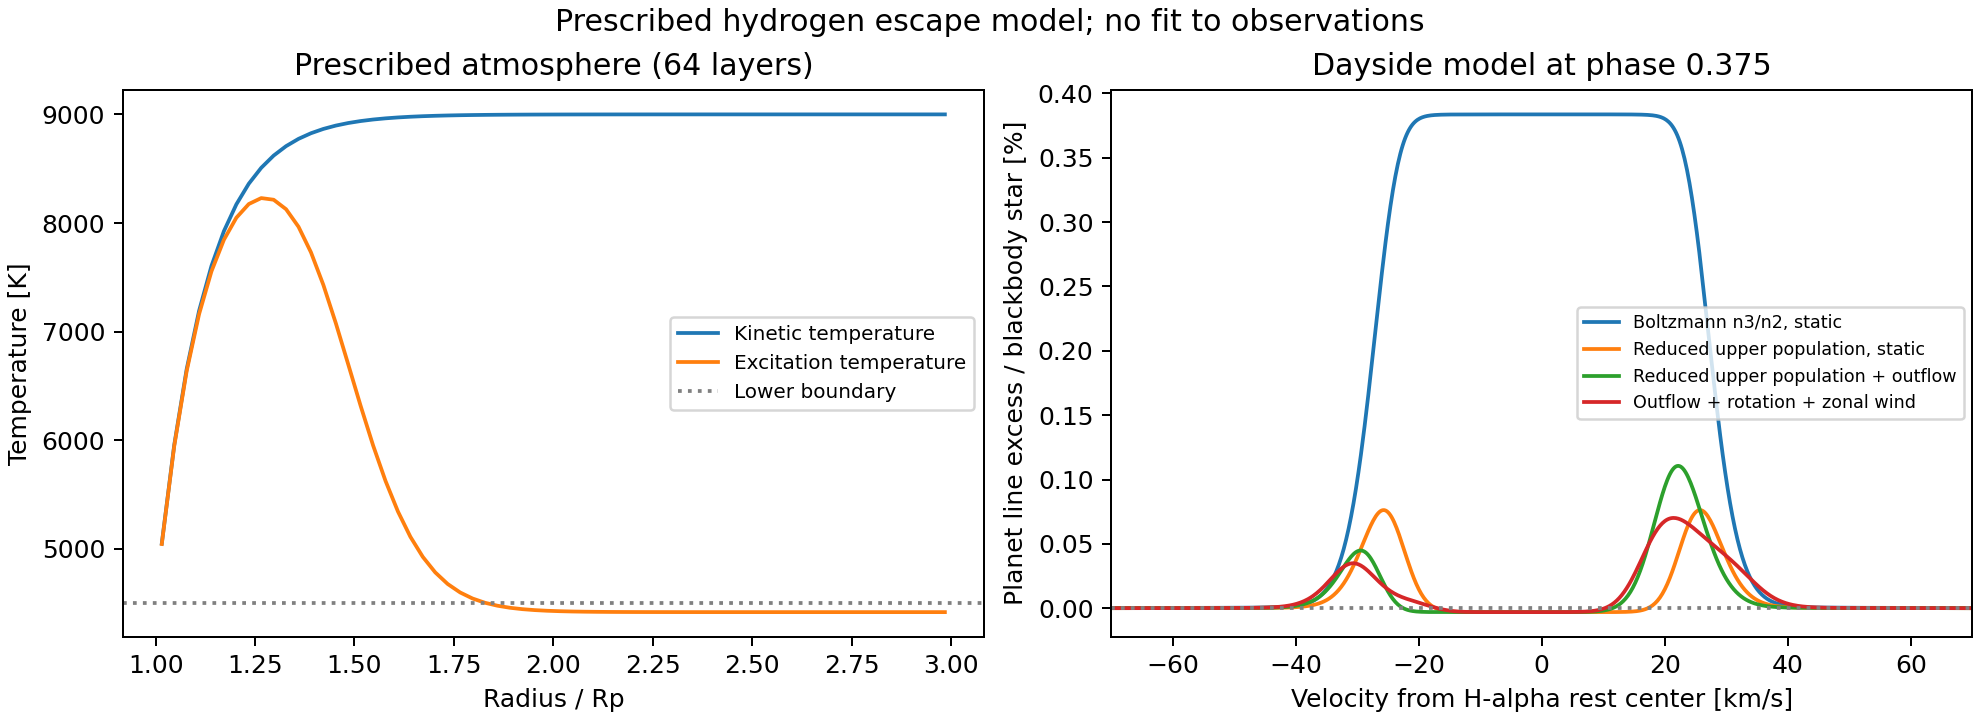
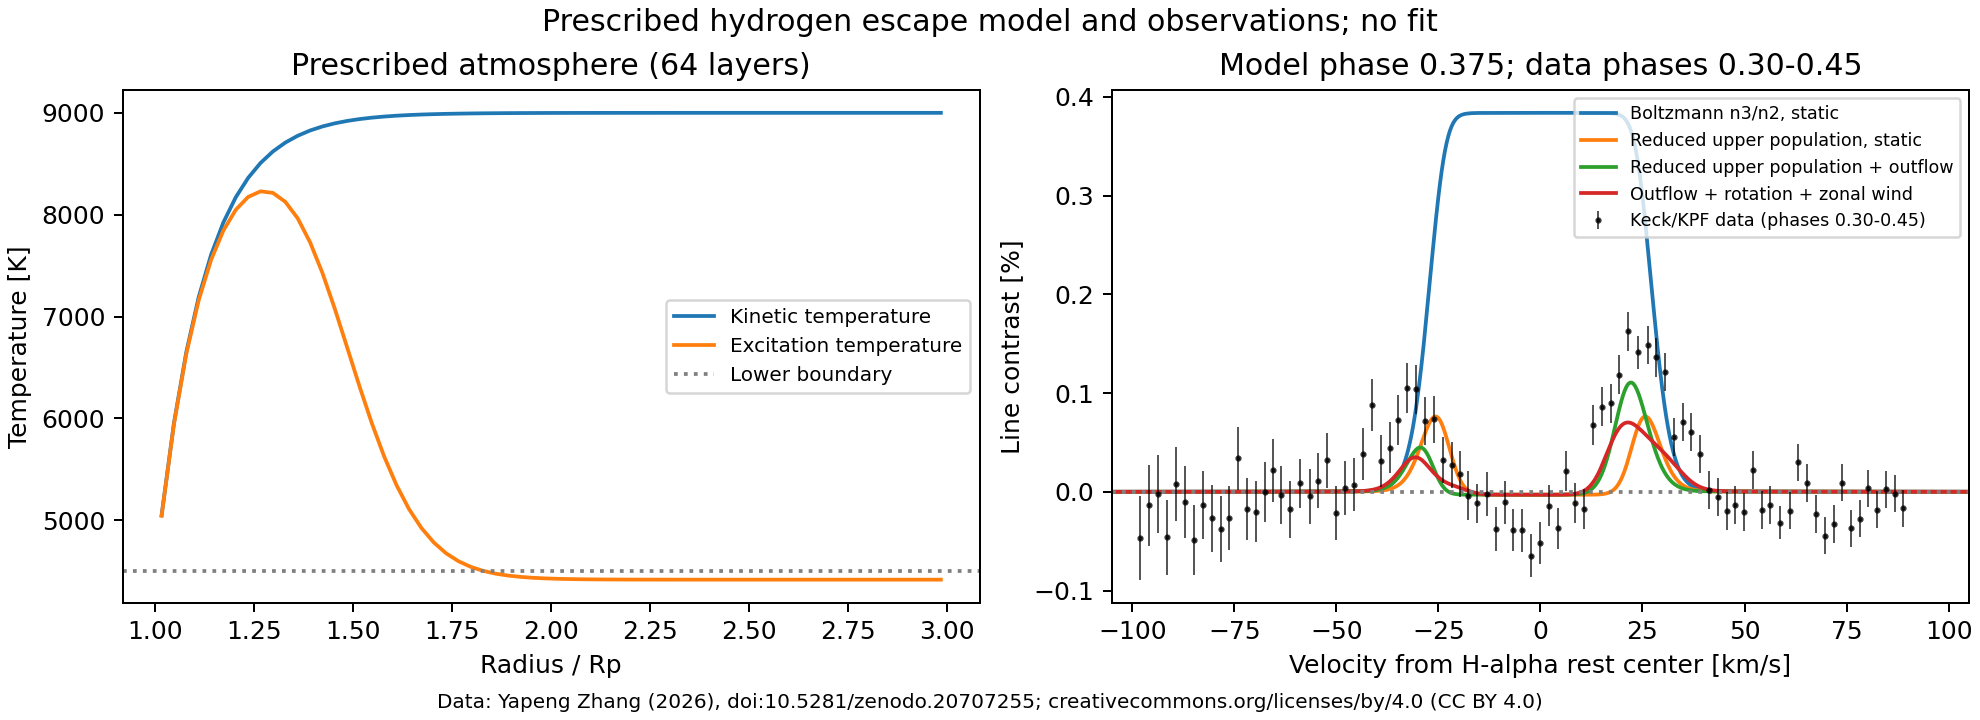
Overlay licensed Zenodo H-alpha observations

diff --git a/generate_spectra.py b/generate_spectra.py
@@ -14,7 +14,7 @@ import numpy as np
 matplotlib.use("Agg")
 import matplotlib.pyplot as plt
 
-from exojax.utils.constants import hcperk
+from exojax.utils.constants import c, hcperk
 from hydrogen_forward import HydrogenForwardModel, SYNCHRONOUS_ROTATION_KMS
 
 CASES = {
@@ -25,10 +25,26 @@ CASES = {
         "outflow_kms": 10.0, "rotation_kms": SYNCHRONOUS_ROTATION_KMS, "zonal_kms": 11.6,
     },
 }
+OBSERVATION_PATH = (
+    Path(__file__).resolve().parent / "data" / "zenodo_20707255"
+    / "KELT9b_w6565_avg_p0.30-0.45.dat"
+)
+
+
+def load_observations(line_center_cm):
+    """Read wavelength, fractional residual, and supplied uncertainty.
+
+    The headerless column interpretation follows the data values and paper;
+    see data/zenodo_20707255/NOTICE.txt. Use the model's rest center without
+    an additional fitted shift, scaling, or rebinning.
+    """
+    wavelength, residual, uncertainty = np.loadtxt(OBSERVATION_PATH, unpack=True)
+    velocity = c * (wavelength / (1e8 / line_center_cm) - 1)
+    return velocity, residual, uncertainty
 
 
 def plot_spectra(model, spectra, phase, destination):
-    """Plot prescribed temperatures and the resulting line excess."""
+    """Plot prescribed temperatures, line excess, and observed residuals."""
     b_ratio = 0.08 + 0.92 * np.asarray(model.departure_transition)
     energy_k = hcperk * model.line_center_cm
     excitation_k = energy_k / (energy_k / np.asarray(model.temperature_k) - np.log(b_ratio))
@@ -41,12 +57,21 @@ def plot_spectra(model, spectra, phase, destination):
     axes[0].legend(fontsize=8)
     for label, spectrum in spectra.items():
         axes[1].plot(model.velocity_kms, 100 * spectrum, label=label)
+    velocity, residual, uncertainty = load_observations(model.line_center_cm)
+    axes[1].errorbar(
+        velocity, 100 * residual, yerr=100 * uncertainty, fmt=".", color="black",
+        markersize=3, elinewidth=0.7, alpha=0.75, zorder=4,
+        label="Keck/KPF data (phases 0.30-0.45)",
+    )
     axes[1].axhline(0, color="0.5", ls=":")
-    axes[1].set(xlim=(-70, 70), xlabel="Velocity from H-alpha rest center [km/s]",
-                ylabel="Planet line excess / blackbody star [%]",
-                title=f"Dayside model at phase {phase:g}")
-    axes[1].legend(fontsize=7)
-    fig.suptitle("Prescribed hydrogen escape model; no fit to observations")
+    axes[1].set(xlim=(-105, 105), xlabel="Velocity from H-alpha rest center [km/s]",
+                ylabel="Line contrast [%]", title=f"Model phase {phase:g}; data phases 0.30-0.45")
+    axes[1].legend(fontsize=7, loc="upper right")
+    fig.suptitle("Prescribed hydrogen escape model and observations; no fit")
+    fig.supxlabel(
+        "Data: Yapeng Zhang (2026), doi:10.5281/zenodo.20707255; "
+        "creativecommons.org/licenses/by/4.0 (CC BY 4.0)", fontsize=8,
+    )
     fig.savefig(destination, dpi=180)
     plt.close(fig)
 
@@ -73,6 +98,10 @@ def main():
         "nnu": len(model.wavenumber_cm), "n2_column_cm-2": 3e14,
         "departure_floor": 0.08, "rest_wavelength_angstrom": 1e8 / model.line_center_cm,
         "cases": CASES,
+        "observation": {
+            "doi": "10.5281/zenodo.20707255", "file": OBSERVATION_PATH.name,
+            "license": "CC-BY-4.0", "phase_range": [0.30, 0.45],
+        },
     }
     if args.check_convergence:
         reference = spectra["Reduced upper population + outflow"]

diff --git a/README.md b/README.md
@@ -26,6 +26,8 @@ JAX_PLATFORMS=cpu python -m pytest -q
 The example saves `model.png`, `spectra.csv`, and `parameters.json` under
 `results/demo/`. Use `--output`, `--phase`, or `--nlayer` to change the run.
 No external atmospheric tables or observational downloads are required.
+The bundled Zenodo observation is licensed under CC BY 4.0; see
+[data attribution and column interpretation](data/zenodo_20707255/NOTICE.txt).
 
 For an individual spectrum:
 
